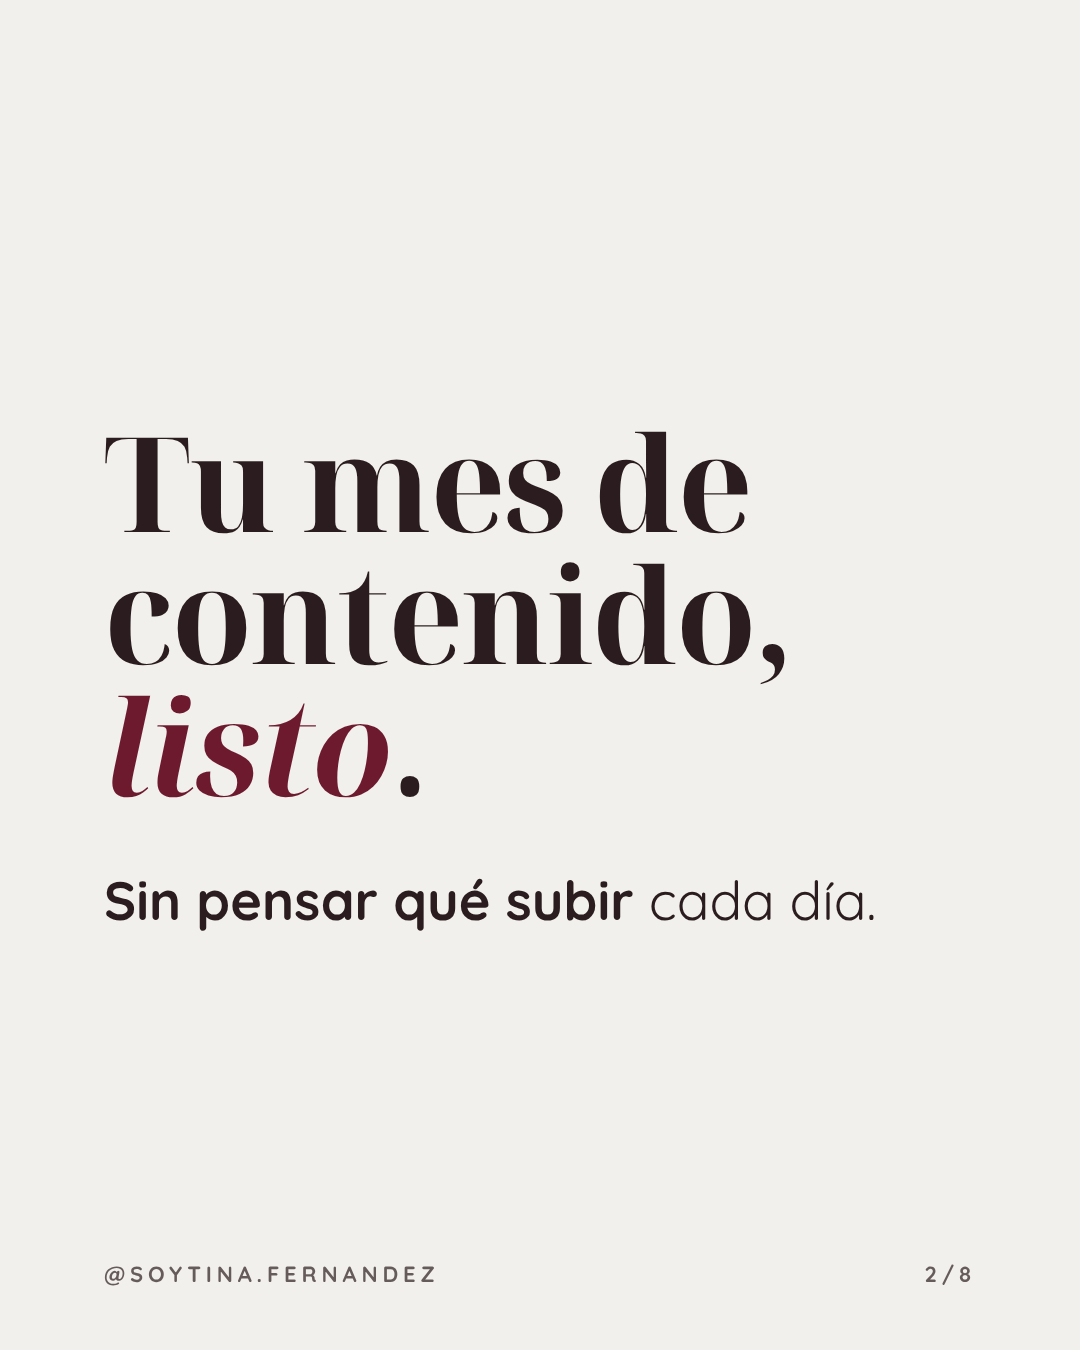
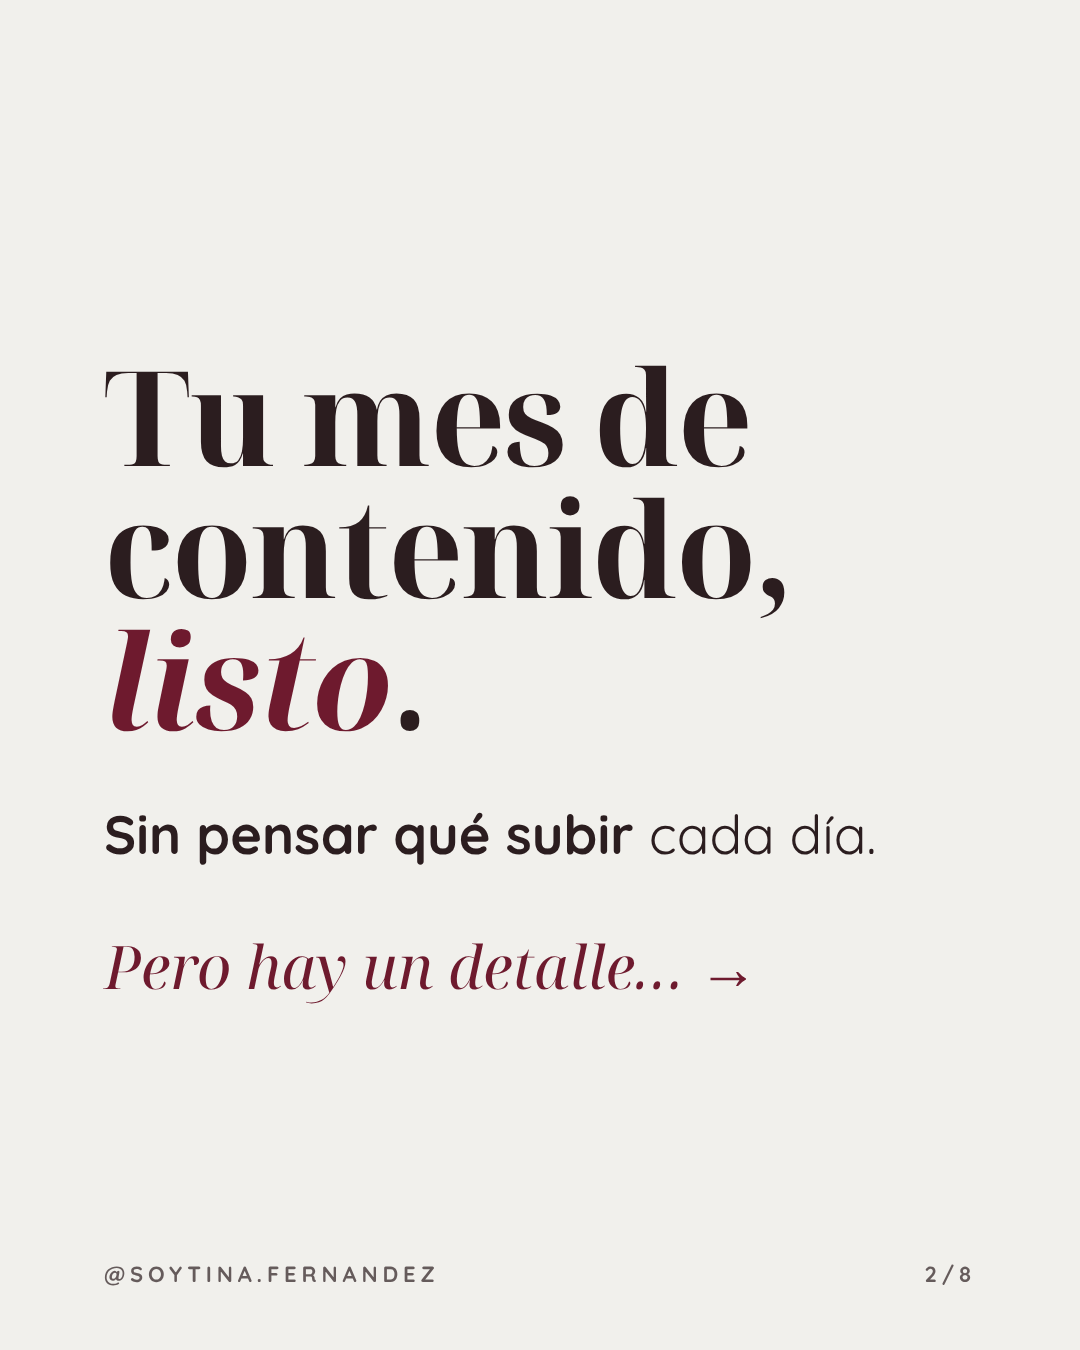
Carrusel 01: puentes entre slides para que deslicen hasta el final
Claude-Session: https://claude.ai/code/session_01646vauRcMy6cepeBrdUKa1

Changed region(s): [[0.0917, 0.2489, 0.825, 0.7467]]

diff --git a/carruseles/01-mes-de-contenido-en-una-tarde/slides.html b/carruseles/01-mes-de-contenido-en-una-tarde/slides.html
@@ -66,7 +66,7 @@
   .portada { justify-content: flex-start; padding-top: 120px; }
   .foto { position: absolute; inset: 0; z-index: 0; }
   .foto img { width: 100%; height: 100%; object-fit: cover; }
-  .portada .foto { top: 640px; }
+  .portada .foto { top: 720px; }
   .portada .foto img { object-position: 50% 40%; }
   .portada .foto::after {
     content: ""; position: absolute; inset: 0;
@@ -118,6 +118,11 @@
   /* Interior llamativo: una frase grande por slide */
   .grande h2 { font-size: 132px; font-weight: 700; line-height: 1; margin-bottom: 56px; }
   .grande h2 mark { font-weight: 700; }
+  /* Puente: frase que abre la siguiente slide */
+  .puente { margin-top: 64px; font-family: var(--font-titulo); font-style: italic; font-size: 60px; line-height: 1.15; color: var(--acento); }
+  .bordo .puente { color: var(--suave); }
+  .paso-g ~ .puente { margin-top: 110px; }
+  .puente-pie { font-family: var(--font-titulo); font-style: italic; font-size: 56px; line-height: 1.15; color: var(--acento); margin-top: 0; }
   .grande .sub { font-size: 54px; font-weight: 700; line-height: 1.25; }
   .grande .sub span { font-weight: 400; }
   .paso-g { display: flex; align-items: center; gap: 44px; }
@@ -143,6 +148,7 @@
   <div class="contenido">
     <p class="kicker">Guardá este post</p>
     <h1>Podés crear <b>un mes de contenido</b> en <mark>una sola tarde</mark></h1>
+    <p class="puente-pie">haciendo esto…</p>
   </div>
   <div class="pie"><span>@soytina.fernandez</span><span class="desliza">Deslizá →</span></div>
 </section>
@@ -152,6 +158,7 @@
   <div class="contenido">
     <h2>Tu mes de contenido, <mark>listo</mark>.</h2>
     <p class="sub">Sin pensar qué subir <span>cada día.</span></p>
+    <p class="puente">Pero hay un detalle… →</p>
   </div>
   <div class="pie"><span>@soytina.fernandez</span><span>2/8</span></div>
 </section>
@@ -161,6 +168,7 @@
   <div class="contenido">
     <h2>Hoy improvisás <mark>todos los días</mark>.</h2>
     <p class="sub"><span>Y encima,</span> nadie te compra.</p>
+    <p class="puente">¿Sabés por qué? →</p>
   </div>
   <div class="pie"><span>@soytina.fernandez</span><span>3/8</span></div>
 </section>
@@ -168,8 +176,9 @@
 <!-- 4 · La solución -->
 <section class="slide grande rosa">
   <div class="contenido">
-    <h2>El secreto: hacer <mark>todo junto</mark>.</h2>
-    <p class="sub"><span>4 pasos.</span> Así →</p>
+    <p class="sub"><span>No te falta tiempo.</span> Hacés todo de a uno.</p>
+    <h2 style="margin-top:48px">El secreto: hacer <mark>todo junto</mark>.</h2>
+    <p class="puente">Son 4 pasos. El primero es el más fácil →</p>
   </div>
   <div class="pie"><span>@soytina.fernandez</span><span>4/8</span></div>
 </section>
@@ -179,6 +188,7 @@
   <div class="contenido">
     <div class="paso-g"><div class="n">1</div><h3>Anotá <mark>30 ideas</mark></h3></div>
     <div class="paso-g"><div class="n">2</div><h3>Escribí <mark>todos</mark> los textos</h3></div>
+    <p class="puente">Pero ojo: con esto solo no alcanza… →</p>
   </div>
   <div class="pie"><span>@soytina.fernandez</span><span>5/8</span></div>
 </section>
@@ -188,6 +198,7 @@
   <div class="contenido">
     <div class="paso-g"><div class="n">3</div><h3>Grabá todo <mark>el mismo día</mark></h3></div>
     <div class="paso-g"><div class="n">4</div><h3>Programalo y <mark>se sube solo</mark></h3></div>
+    <p class="puente">Guardalo, que ahora te lo resumo →</p>
   </div>
   <div class="pie"><span>@soytina.fernandez</span><span>6/8</span></div>
 </section>
@@ -202,6 +213,7 @@
       <li>Programá</li>
     </ol>
     <p class="cierre">Una tarde = <mark>un mes listo</mark>.</p>
+    <p class="puente">Y para que no arranques de cero… →</p>
   </div>
   <div class="pie"><span>@soytina.fernandez</span><span>7/8</span></div>
 </section>

diff --git a/carruseles/01-mes-de-contenido-en-una-tarde/carrusel.md b/carruseles/01-mes-de-contenido-en-una-tarde/carrusel.md
@@ -6,16 +6,16 @@
 - **Lead magnet**: PDF "30 ideas de contenido que venden" (`lead-magnet/30-ideas.pdf`) — palabra: **LISTA**
 - **Fotos**: `grabando-celular-sillon.jpg` (slides 1 y 8, y portada del PDF)
 
-| # | Rol | Layout | Título | Texto |
-|---|-----|--------|--------|-------|
-| 1 | Hook aspiracional | portada con foto abajo | Podés crear un mes de contenido en una sola tarde | GUARDÁ ESTE POST · Deslizá → |
-| 2 | El sueño | frase grande, crema | Tu mes de contenido, listo. | Sin pensar qué subir cada día. |
-| 3 | El dolor | frase grande, bordó | Hoy improvisás todos los días. | Y encima, nadie te compra. |
-| 4 | La solución | frase grande, rosa | El secreto: hacer todo junto. | 4 pasos. Así → |
-| 5 | Pasos 1 y 2 | números en círculo | 1 Anotá 30 ideas · 2 Escribí todos los textos | — |
-| 6 | Pasos 3 y 4 | números en círculo | 3 Grabá todo el mismo día · 4 Programalo y se sube solo | — |
-| 7 | Resumen | lista grande, rosa | 1 Anotá ideas · 2 Escribí · 3 Grabá · 4 Programá | Una tarde = un mes listo. |
-| 8 | CTA | foto arriba + bordó | ¿Querés mi lista de 30 ideas? | Comentá LISTA y te la envío por DM. |
+| # | Rol | Layout | Título | Texto | Puente (abre la siguiente) |
+|---|-----|--------|--------|-------|----------------------------|
+| 1 | Hook aspiracional | portada con foto abajo | Podés crear un mes de contenido en una sola tarde | GUARDÁ ESTE POST · Deslizá → | haciendo esto… |
+| 2 | El sueño | frase grande, crema | Tu mes de contenido, listo. | Sin pensar qué subir cada día. | Pero hay un detalle… → |
+| 3 | El dolor | frase grande, bordó | Hoy improvisás todos los días. | Y encima, nadie te compra. | ¿Sabés por qué? → |
+| 4 | La solución | frase grande, rosa | El secreto: hacer todo junto. | No te falta tiempo. Hacés todo de a uno. | Son 4 pasos. El primero es el más fácil → |
+| 5 | Pasos 1 y 2 | números en círculo | 1 Anotá 30 ideas · 2 Escribí todos los textos | — | Pero ojo: con esto solo no alcanza… → |
+| 6 | Pasos 3 y 4 | números en círculo | 3 Grabá todo el mismo día · 4 Programalo y se sube solo | — | Guardalo, que ahora te lo resumo → |
+| 7 | Resumen | lista grande, rosa | 1 Anotá ideas · 2 Escribí · 3 Grabá · 4 Programá | Una tarde = un mes listo. | Y para que no arranques de cero… → |
+| 8 | CTA | foto arriba + bordó | ¿Querés mi lista de 30 ideas? | Comentá LISTA y te la envío por DM. | — |
 
 ## Caption
 Podés crear un mes de contenido en una sola tarde.

diff --git a/carruseles/marca.md b/carruseles/marca.md
@@ -30,6 +30,9 @@
   - "A prueba de boludos": lenguaje súper simple, frases cortas, una sola idea por slide.
     Nada de jerga (pilares, batching, hooks, funnel, herramientas con nombre raro).
     Si hay pasos, un paso por slide. Ejemplos concretos de la vida real.
+  - Puentes SIEMPRE: cada slide termina con una frase que abre la siguiente ("Pero hay un detalle…",
+    "¿Sabés por qué? →", "Pero ojo: con esto solo no alcanza…", "Y para que no arranques de cero…").
+    Van en serif cursiva bordó (rosa sobre bordó), al pie del contenido, con flecha →.
 - **Notas de diseño aprendidas**:
   - Le gustó la portada: título serif arriba sobre crema, foto abajo sin pisar el texto, "Deslizá" en botón bordó.
   - Interior: demasiado editorial pierde lo llamativo. Preferir UNA frase grande por slide (serif bold ~130px,
